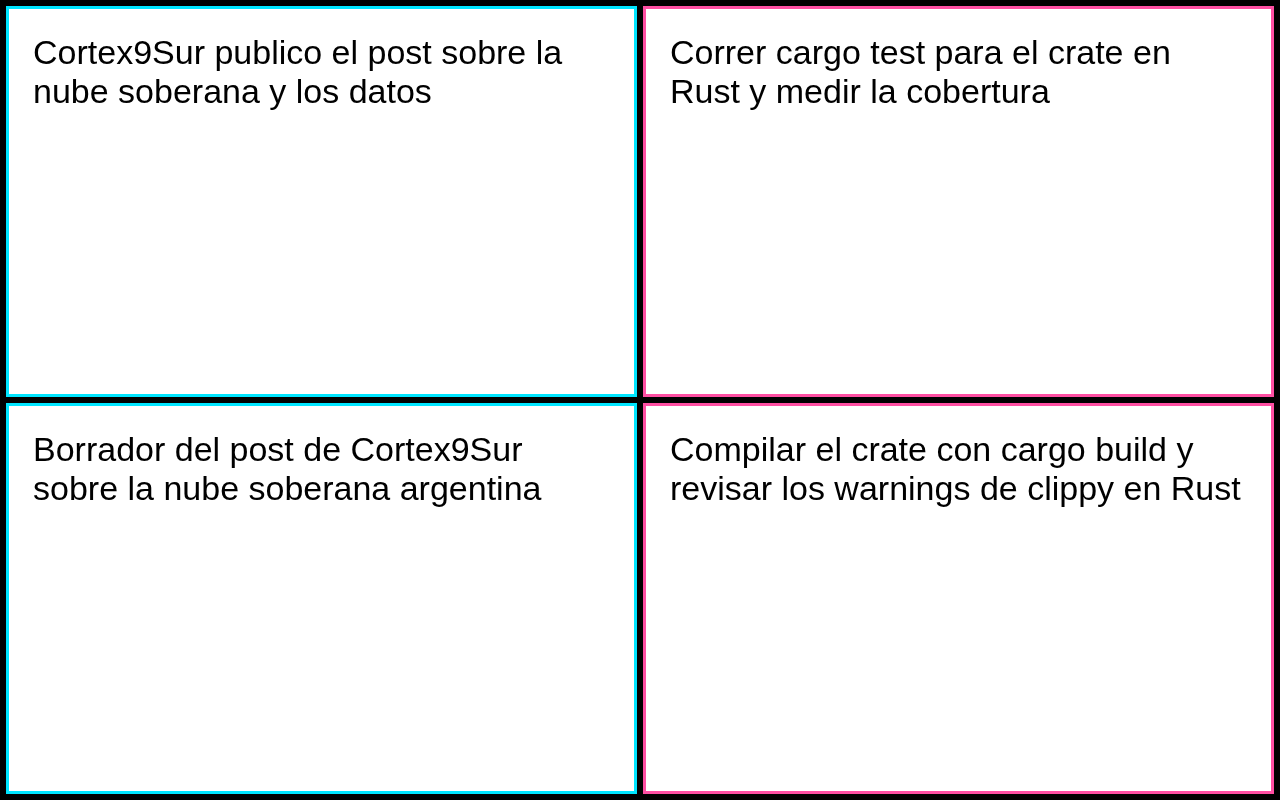
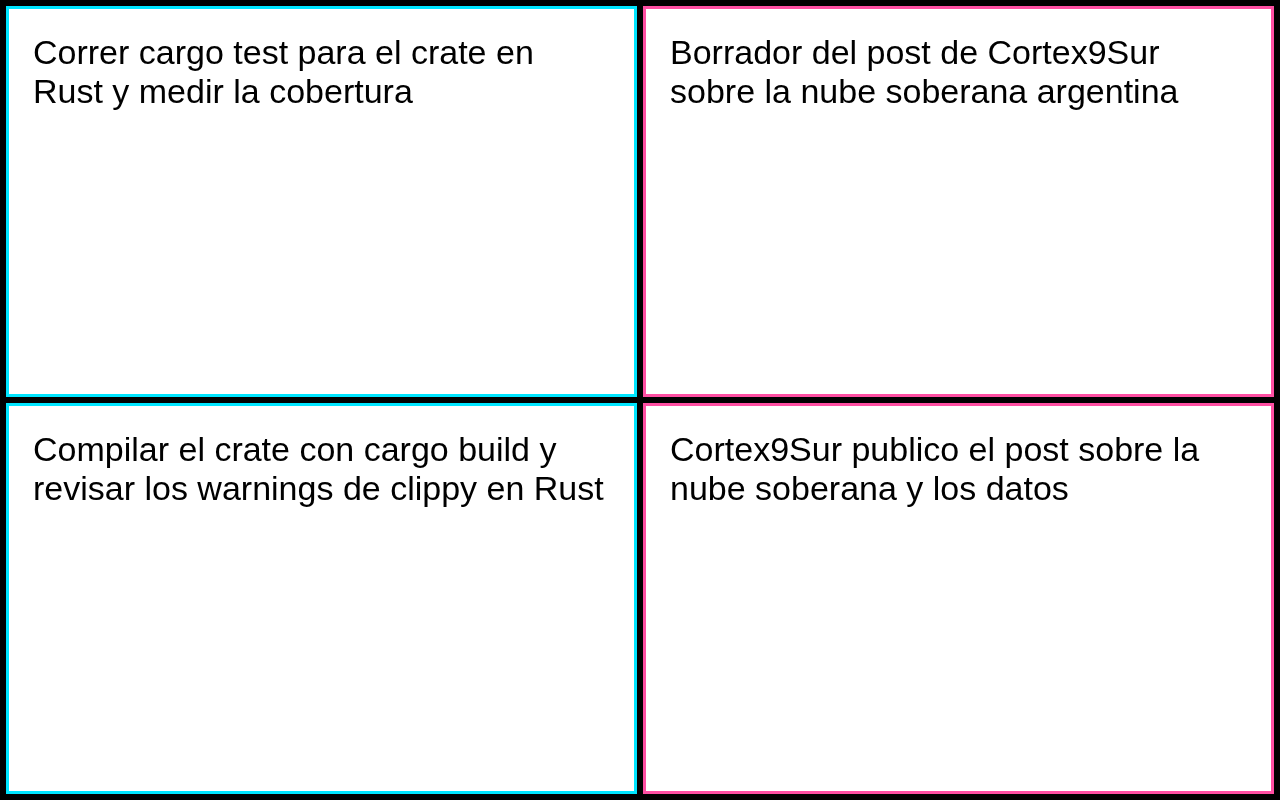
pruebas: display propio por corrida (Xvfb -displayfd), logs por display, espera OCR hasta 120 s

diff --git a/scripts/verificar_vision.py b/scripts/verificar_vision.py
@@ -4,7 +4,7 @@ def lista():
     s = socket.socket(socket.AF_UNIX); s.connect(ruta); f = s.makefile("rw")
     f.write('{"cmd":"list"}\n'); f.flush(); r = json.loads(f.readline()); s.close(); return r["ventanas"]
 t0 = time.time(); vs = []
-while time.time() - t0 < float(os.environ.get("ESPERA", "40")):
+while time.time() - t0 < float(os.environ.get("ESPERA", "120")):
     try: vs = lista()
     except OSError: time.sleep(0.5); continue
     if len(vs) == 4 and all(len(v["pantalla"]) > 20 for v in vs): break
